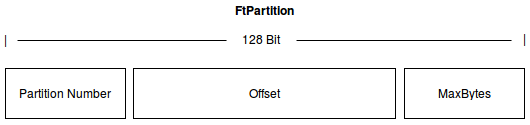
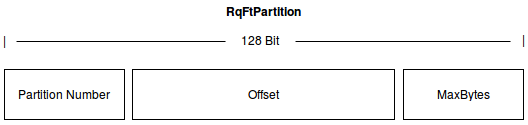
started repsonses

diff --git a/implementation_protocol.tex b/implementation_protocol.tex
@@ -178,7 +178,6 @@ can itself be made up of other,primitive types & Data.List                      
 \end{table}
 
 \subsection{Types related to Request}
-\subsubsection{RequestMessage}
 A request message is the on-wire format of data which is getting from client to
 broker.
 
@@ -189,7 +188,7 @@ used.
 \begin{figure}[H]
     \centering
     \includegraphics[width=0.7\textwidth]{images/impl-prot-types-requestMessage.png}
-    \caption{Fields of type RequestMessage}
+    \caption{Format of type RequestMessage}
     \label{fig:impl-prot-types-requestMessage}
 \end{figure}
 
@@ -230,19 +229,19 @@ array elements in the protocol.
 RequiredAcks  & Data.Word16 & This field indicates how many acknowledgements the broker should receive before responding to the request.                       \\ \hline
 Timeout       & Data.Word32 & This provides a maximum time in milliseconds the broker can await the receipt of the number of acknowledgements in RequiredAcks. \\ \hline
 ListLength    & Data.Word32 & Number of element in following list.                                                                                             \\ \hline
-{[}PrTopic{]} & Data.List   & Sequence of PrTopics, see below.                                                                                                  \\ \hline
+{[}RqPrTopic{]} & Data.List   & Sequence of RqPrTopics, see below.                                                                                                  \\ \hline
 \end{tabular}
 \end{table}
 
 TODO: Functionality of ReqAcks and Timeout are not implemented yet. 
 
-A ProduceRequest includes N repetitions of the PrTopic type whereas the producer
+A ProduceRequest includes N repetitions of the RqPrTopic type whereas the producer
 client is able to send messages for multiple different topics:
 
 \begin{figure}[H]
     \centering
     \includegraphics[width=0.7\textwidth]{images/impl-prot-types-prTopic.png}
-    \caption{Format of type PrTopic; * = N repetitions }
+    \caption{Format of type RqPrTopic; * = N repetitions }
     \label{fig:impl-prot-types-produceRequest}
 \end{figure}
 
@@ -253,18 +252,18 @@ client is able to send messages for multiple different topics:
 StringLength      & Data.Word16     & Length, in bytes, of string TopicName.              \\ \hline
 TopicName         & Data.ByteString & Name of the topic that data is being published to. \\ \hline
 ListLength        & Data.Word32     & Number of element in following list.                \\ \hline
-[PrPartition] & Data.List          & Sequence of PrPartitions, see below.                \\ \hline
+[RqPrPartition] & Data.List          & Sequence of PrPartitions, see below.                \\ \hline
 \end{tabular}
 \end{table}
 
-The PrTopic in turn includes N repetitions of the PrPartition type
+The RqPrTopic in turn includes N repetitions of the RqPrPartition type
 whereas the producer client is able to send message for multiple partitions
 within a topic.  
 
 \begin{figure}[H]
     \centering
     \includegraphics[width=0.7\textwidth]{images/impl-prot-types-prPartition.png}
-    \caption{Format of type PrTopic; * = N repetitions }
+    \caption{Format of type RqPrTopic; * = N repetitions }
     \label{fig:impl-prot-types-produceRequest}
 \end{figure}
 
@@ -274,7 +273,7 @@ within a topic.
 \hline
 PartitionNumber & Data.Word32 & The partition Id that data is being published to.                                                                                                                                        \\ \hline
 MessageSetSize  & Data.Word32 & Sequences of MessageSet's are not preceded by an int32 like other array elements in the protocol. Instead, this field determines the total size, in bytes, of the following MessageSet's. \\ \hline
-[MessageSet]      & Data.List      & Finally the PrPartition type also holds the actual messages (as defined in \ref{impl-protocol-types-data}.                                                                                \\ \hline
+[MessageSet]      & Data.List      & Finally the RqPrPartition type also holds the actual messages (as defined in \ref{impl-protocol-types-data}.                                                                                \\ \hline
 \end{tabular}
 \end{table}
 \subsubsection{FetchRequest}
@@ -284,26 +283,58 @@ topic-partitions. Defines a starting offset at which to begin fetch.
 \begin{figure}[H]
     \centering
     \includegraphics[width=0.7\textwidth]{images/impl-prot-types-fetchRequest.png}
-    \caption{Format of type FetchRequest }
+    \caption{Format of type FetchRequest; * = N repetitions }
     \label{fig:impl-prot-types-fetchRequest}
 \end{figure}
+
+\begin{table}[H]
+\centering
+\begin{tabular}{ l  l  p{11cm} }
+\hline
+ReplicaId      & Data.Word32 & Indicates the node id of the replica initiating this request. (Not yet used in broker implementation)                        \\ \hline
+MaxWaitTime    & Data.Word32 & Maximum amount of time in milliseconds to block,waiting if insufficient data is available at the time the request is,issued. \\ \hline
+MinBytes       & Data.Word32 & Minimum number of bytes of messages that must be available to give a response.                                               \\ \hline
+ListLength     & Data.Word32 & Number of elements in following list.                                                                                        \\ \hline
+{[}FtTopics{]} & Data.List   & Sequence of FtTopics, see below                                                                                              \\ \hline
+\end{tabular}
+\end{table}
 
 \begin{figure}[H]
     \centering
     \includegraphics[width=0.7\textwidth]{images/impl-prot-types-ftTopic.png}
-    \caption{Format of type FtTopic }
+    \caption{Format of type RqFtTopic; * = N repetitions }
     \label{fig:impl-prot-types-ftTopic}
 \end{figure}
+
+\begin{table}[H]
+\centering
+\begin{tabular}{ l  l  p{10cm} }
+\hline
+StringLength      & Data.Word16     & Length, in bytes, of string TopicName.              \\ \hline
+TopicName         & Data.ByteString & Name of the topic the fetch is for . \\ \hline
+ListLength        & Data.Word32     & Number of element in following list.                \\ \hline
+[FtPartition]     & Data.List       & Sequence of FtPartitions, see below.                \\ \hline
+\end{tabular}
+\end{table}
 
 \begin{figure}[H]
     \centering
     \includegraphics[width=0.7\textwidth]{images/impl-prot-types-ftPartition.png}
-    \caption{Format of type FtPartition }
+    \caption{Format of type RqFtPartition }
     \label{fig:impl-prot-types-ftPartition}
 \end{figure}
 
+\begin{table}[H]
+\centering
+\begin{tabular}{ l  l  p{10cm} }
+\hline
+PartitionNumber & Data.Word32 & Id of the partition the fetch is for.                                          \\ \hline
+Offset          & Data.Word64 & Offset to begin the fetch from.                                                \\ \hline
+MaxBytes        & Data.Word32 & Minimum number of bytes of messages that must be available to give a response. \\ \hline
+\end{tabular}
+\end{table}
+
 \subsection{Types related to Response}
-\subsubsection{ResponseMessage}
 A response message is the on-wire format of data which is getting from broker to
 client.
 
@@ -313,9 +344,9 @@ used.
 
 \begin{figure}[H]
     \centering
-    \includegraphics[width=0.7\textwidth]{images/protocol-response-header.png}
-    \caption{Format of type ResponseMessage}
-    \label{fig:protocol-response-header.png}
+    \includegraphics[width=0.7\textwidth]{images/impl-prot-types-responseMessage.png}
+    \caption{Format of type ResponseMessage; * = N repetitions}
+    \label{fig:impl-prot-types-responseMessage}
 \end{figure}
 
 \subsubsection{ProduceResponse}
@@ -323,13 +354,40 @@ Response Payload for Produce API. Sends an ErrorCode which determines whether a
 produce request for e specific topic-partition succeeded (ErrorCode 0 ) or ended
 in a particular failure. 
 
+\begin{figure}[H]
+    \centering
+    \includegraphics[width=0.7\textwidth]{images/impl-prot-types-produceResponse.png}
+    \caption{Format of type ProduceResponse; * = N repetitions}
+    \label{fig:impl-prot-types-produceResponse}
+\end{figure}
+
+\begin{figure}[H]
+    \centering
+    \includegraphics[width=0.7\textwidth]{images/impl-prot-types-prPayload.png}
+    \caption{Format of type RsPrPayload. * = N repetitions}
+    \label{fig:impl-prot-types-prPayload}
+\end{figure}
+
 \subsubsection{FetchResponse}
 Response Payload for Fetch API. Sends requested chunk of one ore more logs as
 sequence of MessageSet's (see \ref{impl-protocol-types-data}). 
 
+\begin{figure}[H]
+    \centering
+    \includegraphics[width=0.7\textwidth]{images/impl-prot-types-fetchResponse.png}
+    \caption{Format of type FetchResponse}
+    \label{fig:impl-prot-types-fetchResponse}
+\end{figure}
+
+\begin{figure}[H]
+    \centering
+    \includegraphics[width=0.7\textwidth]{images/impl-prot-types-ftPayload.png}
+    \caption{Format of type RsFtPayload}
+    \label{fig:impl-prot-types-ftPayload}
+\end{figure}
+
 \subsection{Types related to Data}
 \label{impl-protocol-types-data}
-\subsubsection{MessageSet}
 The actual transported data has a common structure,
 called a MessageSet. This format happens to be used both for the on-disk storage on the
 broker and the on-the-wire format. Therefore the broker do not need to perform
